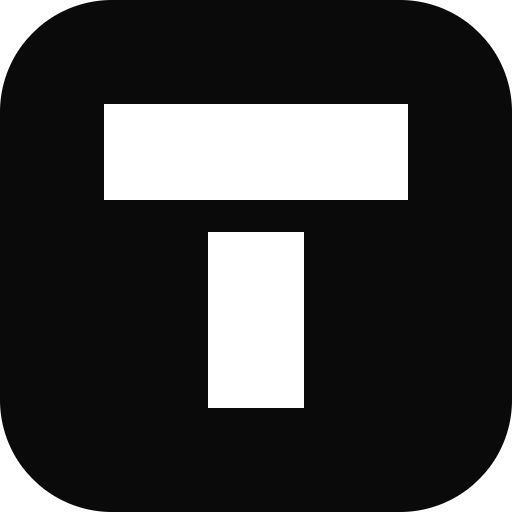
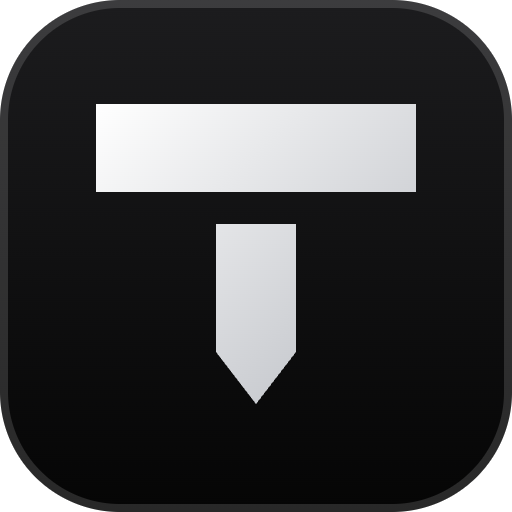
зеркало 2026-11-18 00:11

Changed region(s): [[0.0, 0.0, 1.0, 1.0], [0.1875, 0.1875, 0.8125, 0.4062], [0.4062, 0.4375, 0.5938, 0.8125]]

diff --git a/index.html b/index.html
@@ -11,7 +11,7 @@
 <link rel="icon" href="favicon-32.png" type="image/png" sizes="32x32">
 <link rel="apple-touch-icon" href="apple-touch-icon.png">
 <link rel="manifest" href="site.webmanifest">
-<meta name="theme-color" content="#071A16">
+<meta name="theme-color" content="#000000">
 <meta property="og:type" content="website">
 <meta property="og:url" content="/">
 <meta property="og:image" content="/brand/og.jpg">
@@ -30,8 +30,7 @@ nav.top{position:sticky;top:0;z-index:50;background:color-mix(in srgb,var(--bg) 
 nav.top .wrap{display:flex;align-items:center;gap:22px;height:62px}
 .brand{display:flex;align-items:center;gap:10px;font-weight:900;font-size:19px;letter-spacing:-.01em;color:var(--text)}
 .brand:hover{text-decoration:none}
-.brand i{width:28px;height:28px;border-radius:9px;background:conic-gradient(from 210deg,var(--mal),var(--gold),var(--mal3),var(--mal));box-shadow:0 0 24px color-mix(in srgb,var(--mal) 50%,transparent);position:relative}
-.brand i::after{content:"";position:absolute;inset:7px;border-radius:4px;background:var(--bg)}
+.brand i{width:28px;height:28px;border-radius:8px;background:url(brand/logo.svg) center/cover}
 nav.top .links{display:flex;gap:20px;font-size:14px;font-weight:500}
 nav.top .links a{color:var(--muted)} nav.top .links a:hover{color:var(--text);text-decoration:none}
 nav.top .sp{flex:1}
@@ -147,12 +146,12 @@ footer .wrap{display:flex;justify-content:space-between;gap:16px;flex-wrap:wrap}
 @media (prefers-reduced-motion:reduce){.reveal{opacity:1;transform:none}h1 .g{animation:none}}
 
 /* premium 17.11 */
-.brand img{width:32px;height:32px;filter:drop-shadow(0 0 14px color-mix(in srgb,var(--mal3) 45%,transparent))}
+.brand img{width:30px;height:30px;border-radius:8px}
 .brand em{font-style:normal;font-size:10.5px;font-weight:700;letter-spacing:.16em;color:var(--gold2);border-left:1px solid var(--line2);padding-left:10px;margin-left:2px}
 @media(max-width:420px){.brand em{display:none}}
 .hgrid{display:grid;grid-template-columns:minmax(0,1.35fr) minmax(0,.65fr);gap:40px;align-items:center}
 .emb{position:relative;aspect-ratio:1;max-width:420px;justify-self:end;width:100%}
-.emb img{position:relative;width:100%;height:100%;object-fit:contain;filter:drop-shadow(0 30px 60px rgba(0,0,0,.45));animation:float 7s ease-in-out infinite}
+.emb img{position:relative;width:72%;height:72%;margin:14%;object-fit:contain;filter:drop-shadow(0 24px 48px rgba(0,0,0,.35));animation:float 7s ease-in-out infinite}
 .emb::before{content:"";position:absolute;inset:8%;border-radius:50%;background:radial-gradient(circle,color-mix(in srgb,var(--mal3) 38%,transparent),transparent 65%);filter:blur(20px)}
 .emb::after{content:"";position:absolute;inset:-2%;border-radius:50%;border:1px dashed color-mix(in srgb,var(--gold) 45%,transparent);animation:spin 60s linear infinite}
 @keyframes float{50%{transform:translateY(-12px)}}@keyframes spin{to{transform:rotate(360deg)}}
@@ -188,10 +187,18 @@ footer .fg a,footer .fg div{display:block;color:var(--muted);font-size:13.5px;ma
 footer .fb{display:flex!important;align-items:center;gap:10px;font-weight:900;color:var(--text)!important;font-size:18px!important}
 footer .fb img{width:34px;height:34px}
 @media(max-width:760px){footer .fg{grid-template-columns:1fr 1fr}}
-.lgm{display:inline-block;flex:none;background:linear-gradient(140deg,var(--gold2) 0%,var(--gold) 45%,color-mix(in srgb,var(--gold) 55%,#000) 100%);-webkit-mask:url(brand/mark-mask.svg) center/contain no-repeat;mask:url(brand/mark-mask.svg) center/contain no-repeat}
-.brand i.lgm{width:30px;height:30px;border-radius:0;box-shadow:none;background:linear-gradient(140deg,var(--gold2) 0%,var(--gold) 45%,color-mix(in srgb,var(--gold) 55%,#000) 100%)}
+
+/* монохром: чёрно-белый бренд, цвет — только у статусов */
+:root{--mal:#fafafa;--mal2:#d4d4d4;--mal3:#ffffff;--gold:#bdbdbd;--gold2:#e5e5e5;--on:#000}
+:root[data-theme="light"]{--mal:#0a0a0a;--mal2:#262626;--mal3:#0a0a0a;--gold:#525252;--gold2:#404040;--on:#fff}
+@media (prefers-color-scheme: light){:root:not([data-theme="dark"]){--mal:#0a0a0a;--mal2:#262626;--mal3:#0a0a0a;--gold:#525252;--gold2:#404040;--on:#fff}}
+.btn.pri{background:var(--text);color:var(--bg);border-color:transparent}
+.lgm{display:inline-block;flex:none;background:var(--text);-webkit-mask:url(brand/mark-mask.svg) center/contain no-repeat;mask:url(brand/mark-mask.svg) center/contain no-repeat}
+.brand .lgm{width:30px;height:30px}
 footer .fb .lgm{width:34px;height:34px}
-.emb .lgm{position:relative;display:block;width:72%;height:72%;margin:14%;filter:drop-shadow(0 30px 60px rgba(0,0,0,.45)) drop-shadow(0 0 40px color-mix(in srgb,var(--gold) 30%,transparent));animation:float 7s ease-in-out infinite}
+.emb .lgm{position:relative;display:grid;place-items:center;width:64%;height:64%;margin:18%;border-radius:23%;background:linear-gradient(160deg,color-mix(in srgb,var(--text) 10%,var(--bg)),color-mix(in srgb,var(--text) 3%,var(--bg)));border:1px solid color-mix(in srgb,var(--text) 16%,transparent);box-shadow:0 30px 70px -20px rgba(0,0,0,.45),inset 0 1px 0 color-mix(in srgb,var(--text) 18%,transparent);-webkit-mask:none;mask:none;backdrop-filter:blur(14px);animation:float 7s ease-in-out infinite}.emb .lgm::before{content:"";width:74%;height:74%;background:linear-gradient(170deg,var(--text) 20%,color-mix(in srgb,var(--text) 45%,var(--bg)));-webkit-mask:url(brand/t-mask.svg) center/contain no-repeat;mask:url(brand/t-mask.svg) center/contain no-repeat}
+.emb::before{background:radial-gradient(circle,color-mix(in srgb,var(--text) 14%,transparent),transparent 65%)!important}
+.pill.live .ld{background:#2ee6a0}
 </style>
 </head>
 <body>

diff --git a/assets/pt.css b/assets/pt.css
@@ -1,7 +1,7 @@
-/* Tendarion — shared design tokens. Malachite + gold, dark by default. */
+/* Tendarion — shared design tokens. Pure black / pure white themes, malachite + gold accents. */
 :root{
-  --bg:#060d0b; --bg2:#0a1612; --panel:#0e1d18; --panel2:#132620; --line:#1f3a31; --line2:#2a4d41;
-  --text:#e8f1ec; --muted:#8fa89d; --dim:#5f786d;
+  --bg:#000000; --bg2:#0a0a0a; --panel:#111111; --panel2:#171717; --line:#262626; --line2:#333333;
+  --text:#f5f5f5; --muted:#a3a3a3; --dim:#6b6b6b;
   --mal:#17b58a; --mal2:#0f7a5c; --mal3:#36e0ae; --gold:#d8b46a; --gold2:#f3d79a;
   --red:#ef5a5a; --amber:#f0a83a; --blue:#4ea4ff; --violet:#a78bfa;
   --r:14px; --r2:22px; --shadow:0 20px 60px rgba(0,0,0,.45);
@@ -10,15 +10,15 @@
   color-scheme:dark;
 }
 :root[data-theme="light"]{
-  --bg:#f5f7f4; --bg2:#ecf1ed; --panel:#ffffff; --panel2:#f2f6f3; --line:#dbe5df; --line2:#c6d6cd;
-  --text:#0d1f19; --muted:#557064; --dim:#8aa094;
+  --bg:#ffffff; --bg2:#f6f6f6; --panel:#ffffff; --panel2:#f5f5f5; --line:#e6e6e6; --line2:#d4d4d4;
+  --text:#0a0a0a; --muted:#5c5c5c; --dim:#9a9a9a;
   --mal:#0e9a72; --mal2:#0b7a5a; --mal3:#0e9a72; --gold:#a8812c; --gold2:#8a6820;
   --shadow:0 14px 40px rgba(20,50,40,.12); color-scheme:light;
 }
 @media (prefers-color-scheme: light){
   :root:not([data-theme="dark"]){
-    --bg:#f5f7f4; --bg2:#ecf1ed; --panel:#ffffff; --panel2:#f2f6f3; --line:#dbe5df; --line2:#c6d6cd;
-    --text:#0d1f19; --muted:#557064; --dim:#8aa094;
+    --bg:#ffffff; --bg2:#f6f6f6; --panel:#ffffff; --panel2:#f5f5f5; --line:#e6e6e6; --line2:#d4d4d4;
+    --text:#0a0a0a; --muted:#5c5c5c; --dim:#9a9a9a;
     --mal:#0e9a72; --mal2:#0b7a5a; --mal3:#0e9a72; --gold:#a8812c; --gold2:#8a6820;
     --shadow:0 14px 40px rgba(20,50,40,.12); color-scheme:light;
   }
@@ -44,7 +44,7 @@ button,input,select,textarea{font:inherit;color:inherit}
 /* demo top bar (injected by demo.js) */
 .ptbar{position:sticky;top:0;z-index:1000;display:flex;align-items:center;gap:10px;padding:8px 14px;background:color-mix(in srgb,var(--bg) 82%,transparent);backdrop-filter:blur(14px);-webkit-backdrop-filter:blur(14px);border-bottom:1px solid var(--line);font-size:13px}
 .ptbar .logo{display:flex;align-items:center;gap:8px;font-weight:800;color:var(--text);letter-spacing:.02em}
-.ptbar .logo i{width:22px;height:22px;display:inline-block;background:linear-gradient(140deg,var(--gold2) 0%,var(--gold) 45%,color-mix(in srgb,var(--gold) 55%,#000) 100%);-webkit-mask:url(/brand/mark-mask.svg) center/contain no-repeat;mask:url(/brand/mark-mask.svg) center/contain no-repeat}
+.ptbar .logo i{width:22px;height:22px;display:inline-block;background:var(--text);-webkit-mask:url(/brand/mark-mask.svg) center/contain no-repeat;mask:url(/brand/mark-mask.svg) center/contain no-repeat}
 .ptbar .sep{color:var(--dim)} .ptbar .name{font-weight:600;white-space:nowrap;overflow:hidden;text-overflow:ellipsis}
 .ptbar .sp{flex:1}
 .ptbar .tg{white-space:nowrap;flex-shrink:0;border:1px solid var(--line2);background:transparent;border-radius:999px;padding:4px 10px;cursor:pointer;font-size:12px;font-weight:700}
@@ -52,7 +52,8 @@ button,input,select,textarea{font:inherit;color:inherit}
 .ptbar .badge{font-size:11px;color:var(--gold2);border:1px solid color-mix(in srgb,var(--gold) 50%,transparent);border-radius:999px;padding:2px 8px}
 @media (max-width:640px){.ptbar .badge,.ptbar .sep,.ptbar .hidem{display:none}.ptbar{gap:6px;padding:8px 10px}.ptbar .name{min-width:0;flex:1 1 auto}.ptbar .sp{flex:0 0 0}}
 
+/* LIVE badge: solid dark pill, readable on any preview and theme */
 .pill.live{background:rgba(10,10,10,.78);color:#fff;border-color:rgba(255,255,255,.18);backdrop-filter:blur(8px);-webkit-backdrop-filter:blur(8px);font-weight:800;letter-spacing:.06em;box-shadow:0 2px 10px rgba(0,0,0,.25)}
-.pill.live .ld{width:7px;height:7px;border-radius:50%;background:#2ee6a0;display:inline-block;margin-right:6px;animation:ldp 1.8s ease-out infinite}
+.pill.live .ld{width:7px;height:7px;border-radius:50%;background:#2ee6a0;animation:ldp 1.8s ease-out infinite}
 @keyframes ldp{0%{box-shadow:0 0 0 0 rgba(46,230,160,.7)}70%{box-shadow:0 0 0 7px rgba(46,230,160,0)}100%{box-shadow:0 0 0 0 rgba(46,230,160,0)}}
 @media(prefers-reduced-motion:reduce){.pill.live .ld{animation:none}}
